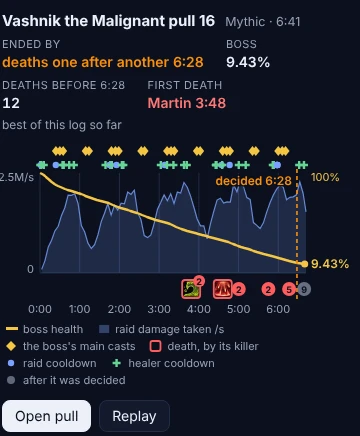
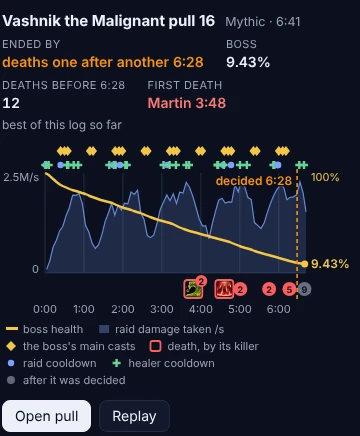
fix(agent): a chart's scale isn't cut at the card's edge, and a long night's pull numbers keep apart
Seen in the shots of every view: the pull card's damage scale lost its
first figure whenever it was wider than "10M/s", and under 42 pulls on a
phone "41" and "42" printed on each other. The left margin now fits the
label, the number before the last gives way, labels over a night's bars
get the halo, and the changelog's stale screenshots are redrawn.

diff --git a/src/wipebot/core/app/raidnight.js b/src/wipebot/core/app/raidnight.js
@@ -77,7 +77,7 @@ views.night = (() => {
     if (line.length > 1) o += `<path d="${line.map(([px, py], i) => `${i ? "L" : "M"}${px} ${py}`).join(" ")}" fill="none" stroke="var(--ink)" stroke-width="1.6" pointer-events="none"/>`;
     // the night's best wipe, named: a bar near 0% is too short to see
     const top = D.pulls.reduce((b, r, i) => (!r.kill && !r.reset && !r.live && r.pct != null && (b < 0 || r.pct < D.pulls[b].pct) ? i : b), -1);
-    if (top >= 0 && !D.pulls.some((r) => r.kill)) o += kit.text(x(top) + band / 2, y(D.pulls[top].pct) - 6, said(D.pulls[top]), "t", 'text-anchor="middle" font-weight="700"', kit.SIZE.value);
+    if (top >= 0 && !D.pulls.some((r) => r.kill)) o += kit.text(x(top) + band / 2, y(D.pulls[top].pct) - 6, said(D.pulls[top]), "t over", 'text-anchor="middle" font-weight="700"', kit.SIZE.value);
     if (D.guild_best) {
       const gy = y(D.guild_best.pct);
       o += kit.line(L, gy, W - R, gy, "var(--gold)", 'stroke-width="1.4" stroke-dasharray="5 4" pointer-events="none"');
@@ -86,7 +86,7 @@ views.night = (() => {
       o += kit.text(left ? L + 4 : W - R, gy - 5, `guild best before: ${said(D.guild_best)}`, "tg", `text-anchor="${left ? "start" : "end"}" font-weight="600"`);
     }
     const every = Math.max(1, Math.ceil(24 / band));
-    D.pulls.forEach((r, i) => { if (i % every === 0 || i === n - 1) o += kit.text(x(i) + band / 2, T + plotH + 14, r.pull, "tm", 'text-anchor="middle"'); });
+    D.pulls.forEach((r, i) => { if (kit.numbered(i, n, every)) o += kit.text(x(i) + band / 2, T + plotH + 14, r.pull, "tm", 'text-anchor="middle"'); });
     // the legend, only where the list of how the pulls ended isn't drawn under it (that list is the legend): the
     // coloured endings by how many pulls, the rest as one "other", then the line
     const other = D.ends.filter(([w]) => !QUIET.has(w) && !color.hued(w)).reduce((n, [, k]) => n + k, 0);
@@ -134,12 +134,12 @@ views.night = (() => {
         + (r.ended ? `\nEnded most pulls: ${r.ended[0]} (${r.ended[1]})` : "");
       if (r.kill) o += `<path d="M${cx} ${y(0) - 14} l5 10 l-10 0z" fill="var(--gold)"/>`;
       else if (r.pct != null) o += `<rect x="${cx - bw / 2}" y="${y(v)}" width="${bw}" height="${Math.max(1, y(0) - y(v))}" rx="3" fill="${phaseColor(r.phase, top)}"/>`;
-      o += kit.text(cx, (r.kill ? y(0) - 14 : y(v)) - 5, best(r), r.kill ? "tg" : "t", 'text-anchor="middle" font-weight="700"', kit.SIZE.value);
+      o += kit.text(cx, (r.kill ? y(0) - 14 : y(v)) - 5, best(r), r.kill ? "tg" : "t over", 'text-anchor="middle" font-weight="700"', kit.SIZE.value);
       o += `<rect x="${x(i)}" y="0" width="${band}" height="${plotH + T + 34}" fill="transparent" data-night="${kit.esc(r.report)}"${r.report !== D.report ? kit.opens("that night") : ""}${kit.tip(tip)}/>`;
     });
     const every = Math.max(1, Math.ceil(70 / band));
     W.forEach((r, i) => {
-      if (i % every && i !== n - 1) return;
+      if (!kit.numbered(i, n, every)) return;
       o += kit.text(x(i) + band / 2, T + plotH + 14, r.day, "tm", 'text-anchor="middle"');
       o += kit.text(x(i) + band / 2, T + plotH + 27, kit.plural(r.pulls, "pull"), "tm", 'text-anchor="middle"');
     });

diff --git a/src/wipebot/core/app/pull.js b/src/wipebot/core/app/pull.js
@@ -107,6 +107,10 @@ views.pull = (() => {
   const HEALER_MARK = (cx, cy) => `<path d="M${cx - 4} ${cy}h8M${cx} ${cy - 4}v8" stroke="var(--green)" stroke-width="2.4" fill="none"/>`;
 
   function chart({ W, L, R, plotH, lanes }) {
+    // raid damage taken per second, on the left axis, whose top label the left margin makes room for
+    const per = D.damage.per_s, step = D.damage.step_ms, peaks = per.length ? D.damage.peaks || [] : [];
+    const max = per.length ? niceMax(Math.max(...per.map((q) => q[1]))) : 1, most = `${kit.short(max)}/s`;
+    L = Math.max(L, Math.ceil(kit.width(most)) + 8);
     const x = (ms) => L + ms / D.duration_ms * (W - L - R);
     let y = 4, o = "";
     const label = (s, yy) => lanes ? kit.text(6, yy, s) : "";
@@ -172,9 +176,6 @@ views.pull = (() => {
     const boxes = [];
     const free = (x0, x1, y0, y1) => !boxes.some((q) => x0 < q[1] && q[0] < x1 && y0 < q[3] && q[2] < y1);
     const dx = D.decided ? x(D.decided.ms) : null;
-    // raid damage taken per second, on the left axis
-    const per = D.damage.per_s, step = D.damage.step_ms, peaks = per.length ? D.damage.peaks || [] : [];
-    const max = per.length ? niceMax(Math.max(...per.map((q) => q[1]))) : 1;
     const yD = (v) => bottom - v / max * plotH;
     if (per.length) {
       // the peaks (twice the pull's median or more): a band behind, the healer cooldowns near it in its tooltip
@@ -188,7 +189,7 @@ views.pull = (() => {
       const pts = per.map(([ms, v]) => [Math.min(ms + step / 2, D.duration_ms), v]);
       o += `<path d="M${x(pts[0][0])} ${bottom} ${pts.map(([ms, v]) => `L${x(ms)} ${yD(v)}`).join(" ")} L${x(pts[pts.length - 1][0])} ${bottom}Z" fill="var(--blue)" opacity=".18"/>`;
       o += `<path d="${pts.map(([ms, v], i) => `${i ? "L" : "M"}${x(ms)} ${yD(v)}`).join(" ")}" fill="none" stroke="var(--blue)" stroke-width="1.2" opacity=".8"/>`;
-      o += kit.text(L - 6, top + 8, `${kit.short(max)}/s`, "tm", 'text-anchor="end"');
+      o += kit.text(L - 6, top + 8, most, "tm", 'text-anchor="end"');
       o += kit.text(L - 6, bottom, "0", "tm", 'text-anchor="end"');
     }
     // boss health, on the right axis: 0 to 100% on every pull, so the lines of two pulls compare, the axis and the

diff --git a/src/wipebot/core/app/night.js b/src/wipebot/core/app/night.js
@@ -146,13 +146,13 @@ views.player_night = (() => {
       o += kit.line(a + 2, y, b - 2, y, "var(--ink)", 'stroke-width="1.4" stroke-dasharray="5 3" opacity=".75"');
       const label = `${["first", "middle", "last"][k]} third: median ${kit.short(t.rate)}, died ${t.died} of ${t.pulls.length}`;
       o += kit.hit(a, y - 6, b - a, 12, label);
-      if (lanes) o += kit.text(a + 4, y - 5, label, "t");
+      if (lanes) o += kit.text(a + 4, y - 5, label, "t over");
     });
     // a column per pull: its tooltip, and a click opens that pull
     D.pulls.forEach((r, i) => { o += `<rect x="${x(i)}" y="${T}" width="${band}" height="${plotH + 24}" fill="transparent" data-pull-col="${r.pull}"${kit.opens("this pull")}${kit.tip(tipOf(r))}/>`; });
     // pull numbers, as many as fit
     const every = Math.max(1, Math.ceil(26 / band));
-    D.pulls.forEach((r, i) => { if (i % every === 0 || i === n - 1) o += kit.text(x(i) + band / 2, T + plotH + 36, r.pull, "tm", 'text-anchor="middle"'); });
+    D.pulls.forEach((r, i) => { if (kit.numbered(i, n, every)) o += kit.text(x(i) + band / 2, T + plotH + 36, r.pull, "tm", 'text-anchor="middle"'); });
     // the legend, wrapping on a narrow card
     const keys = [[(lx, ly) => `<rect x="${lx}" y="${ly - 8}" width="10" height="8" rx="2" ${kit.cls(D.player.color, "cb")} opacity=".75"/>`, `${D.what} per s alive`],
       [(lx, ly) => `<line x1="${lx}" y1="${ly - 4}" x2="${lx + 12}" y2="${ly - 4}" stroke="var(--gold)" stroke-width="1.6"/>`, "boss left at the end"],

diff --git a/src/wipebot/core/app/kit.js b/src/wipebot/core/app/kit.js
@@ -8,6 +8,9 @@ const kit = (() => {
   const ordinal = (n) => { const r = n % 100, t = n % 10; return `${n}${r >= 11 && r <= 13 ? "th" : ["th", "st", "nd", "rd"][t] || "th"}`; };
   // 1 pull, 2 pulls: a count with its noun
   const plural = (n, one, many = `${one}s`) => `${n} ${n === 1 ? one : many}`;
+  // Which of n marks in a row are numbered when only one in `every` has room: each `every`th, and the last always,
+  // the one before it giving way where the two would touch
+  const numbered = (i, n, every) => i === n - 1 || (i % every === 0 && n - 1 - i >= every);
   const svg = (w, h, body, label) => `<svg viewBox="0 0 ${w} ${h}" role="img" aria-label="${esc(label)}">${body}</svg>`;
   // Chart text comes in three sizes, chosen once: a label (axes, legends, captions: the card's smallest text, as
   // its stats' headings), a value (what names data: a line's end, a best, a name) and a number inside a mark. The
@@ -190,6 +193,6 @@ const kit = (() => {
   });
   document.addEventListener("focusout", hide);
 
-  return { esc, clock, short, ordinal, svg, text, line, width, el, niceMax, labels, stats, tip, hit, icon, iconImg, SIZE, cls, palette, head, plural, notes, legend, opens, fit };
+  return { esc, clock, short, ordinal, svg, text, line, width, el, niceMax, labels, stats, tip, hit, icon, iconImg, SIZE, cls, palette, head, plural, notes, legend, opens, fit, numbered };
 })();
 const views = {};  // each view: views.<name>.show(root, key, open), drawn into root

diff --git a/tests/core/test_views.py b/tests/core/test_views.py
@@ -772,8 +772,10 @@ CHART = """() => {
     const across = a.box[0] < b.box[1] - 1 && b.box[0] < a.box[1] - 1;
     if (across && a.box[2] < b.box[3] - 3 && b.box[2] < a.box[3] - 3) over.push([a.said, b.said]);
   }));
+  const frame = document.querySelector("#pv-chart svg").getBoundingClientRect();
+  const cut = texts.filter((t) => t.box[0] < frame.left - 0.5 || t.box[1] > frame.right + 0.5).map((t) => t.said);
   const count = (sel) => document.querySelectorAll(`#pv-chart svg ${sel}`).length;
-  return { texts, over, raid: count('circle[fill="var(--blue)"]'), healers: count('path[stroke="var(--green)"]') };
+  return { texts, over, cut, raid: count('circle[fill="var(--blue)"]'), healers: count('path[stroke="var(--green)"]') };
 }"""
 
 
@@ -781,10 +783,11 @@ CHART = """() => {
 @pytest.mark.parametrize("width", [320, 760])
 async def test_nothing_written_in_the_pull_chart_runs_into_anything_else(recorded, case, width):
     """At a phone's width too: the moment the wipe was decided, a damage peak's height and the two axes' labels each
-    keep their own place (they once ran across each other and the health line on a narrow card)."""
+    keep their own place (they once ran across each other and the health line on a narrow card), and none is cut at
+    the chart's edge (a damage scale of "5.0M/s" once lost its first figure there)."""
     async with drawn("pull_summary", CASES[case].args, width=width) as (view, errors):
         chart = await view.evaluate(CHART)
-    assert not errors and chart["over"] == []
+    assert not errors and chart["over"] == [] and chart["cut"] == []
 
 
 async def test_the_pull_chart_names_both_axes_and_draws_the_cooldowns_its_tool_promises(recorded):
@@ -917,6 +920,22 @@ async def test_the_keyboard_steps_through_a_charts_marks_and_opens_what_a_click_
         await keys.press("Enter")
         await view.locator("h1", has_text="Sszorak pull 13").wait_for()
         assert not errors
+
+
+LONG_NIGHT = {"report": CASES["first-hits"].args["report"], "boss": "Sszorak"}  # 42 pulls on the boss
+NUMBERS = """() => [...document.querySelectorAll('#app svg text.tm[text-anchor="middle"]')].map((t) => {
+  const r = t.getBoundingClientRect();
+  return { said: t.textContent, left: r.left, right: r.right };
+})"""
+
+
+async def test_the_pull_numbers_under_a_long_nights_bars_keep_apart(recorded):
+    """A night's bars are numbered as many as fit, the last pull's always: the number before it gives way where the
+    two would touch (on a phone "41" and "42" once ran into one another under a night of 42 pulls)."""
+    async with drawn("progress", LONG_NIGHT, width=360) as (view, errors):
+        numbers = await view.evaluate(NUMBERS)
+    assert not errors and numbers[0]["said"] == "1" and numbers[-1]["said"] == "42" and len(numbers) > 8
+    assert all(a["right"] + 3 <= b["left"] for a, b in itertools.pairwise(numbers)), [n["said"] for n in numbers]
 
 
 async def test_the_keyboard_reaches_a_tables_rows_and_a_marks_tooltip_where_nothing_opens(recorded):

diff --git a/CHANGELOG.md b/CHANGELOG.md
@@ -45,9 +45,9 @@ The format is based on [Keep a Changelog](https://keepachangelog.com/en/1.1.0/).
 - `Agent` **The words on the cards are put right.** A parse reads "81st percentile", not "81th". A death the log names no killing blow for is labelled "no killing blow recorded", not "killed by no killing blow recorded". A boss killed on the first pull has "1 pull", and no heading or key for what isn't there. "Could have lived" says "Astral Shift on 1 death", and the rank under "per second alive" says it is by total. On a death, what would have kept the player alive is marked as something to do differently, as it is on their night, and no longer with the plus of what went well.
 
   ![Scopidruid's death on Sszorak pull 13: under the numbers, a minus and "A healthstone, used in time, would have kept them alive", then the hits and their health in the 10 s before the death](https://raw.githubusercontent.com/Enf0/wipebot/main/docs/images/death-missed-save.webp)
-- `Agent` **The pull's chart names both of its scales, and its labels keep apart.** The boss's health now runs from 100% to 0 on every pull, so the lines of two pulls compare, with the scale on the right written in the line's gold. On a phone the moment the wipe was decided and a damage peak's height no longer print across each other or across the health line: each takes the free place nearest to it, and why the wipe was decided stays in "Ended by" over the chart. The card also has the cooldowns its tool said it had: one row over the chart, a dot for a raid cooldown and a plus for a healer's.
+- `Agent` **The pull's chart names both of its scales, and its labels keep apart.** The boss's health now runs from 100% to 0 on every pull, so the lines of two pulls compare, with the scale on the right written in the line's gold. On a phone the moment the wipe was decided and a damage peak's height no longer print across each other or across the health line: each takes the free place nearest to it, and why the wipe was decided stays in "Ended by" over the chart. The card also has the cooldowns its tool said it had: one row over the chart, a dot for a raid cooldown and a plus for a healer's. The damage scale's top figure is no longer cut at the card's edge ("5.0M/s" read ".0M/s"), and under a long night's bars the last two pull numbers no longer print on each other.
 
-  ![Vashnik pull 16 at a phone's width: a row of dots and pluses for the cooldowns over the chart, "decided 6:28" above the health line beside its dashed line, and 100% and 9.43% in gold on the right](https://raw.githubusercontent.com/Enf0/wipebot/main/docs/images/pull-chart-phone.webp)
+  ![Vashnik pull 16 at a phone's width: a row of dots and pluses for the cooldowns over the chart, "decided 6:28" above the health line beside its dashed line, 2.5M/s whole on the left, and 100% and 9.43% in gold on the right](https://raw.githubusercontent.com/Enf0/wipebot/main/docs/images/pull-chart-phone.webp)
 - `MCP` **A chart can be read with the keyboard, and with a finger.** Only the buttons under a card could be reached without a mouse. Tab now stops on each chart, the arrow keys step through its marks with what each one says, and Enter opens the pull a click opens; the table of pulls works the same way, and a screen reader hears each mark's fact and where the replay's timeline stands. On a phone a tap on one of a night's thin bars says which pull it is and stays to be read, a second tap opens it, and buttons and a pull's chip are a finger's size.
 
   ![Sszorak's night at a phone's width with pull 13's bar tapped: its tooltip with how far the pull got, what ended it and the first death, ending "Tap again for this pull"](https://raw.githubusercontent.com/Enf0/wipebot/main/docs/images/night-tap-phone.webp)
